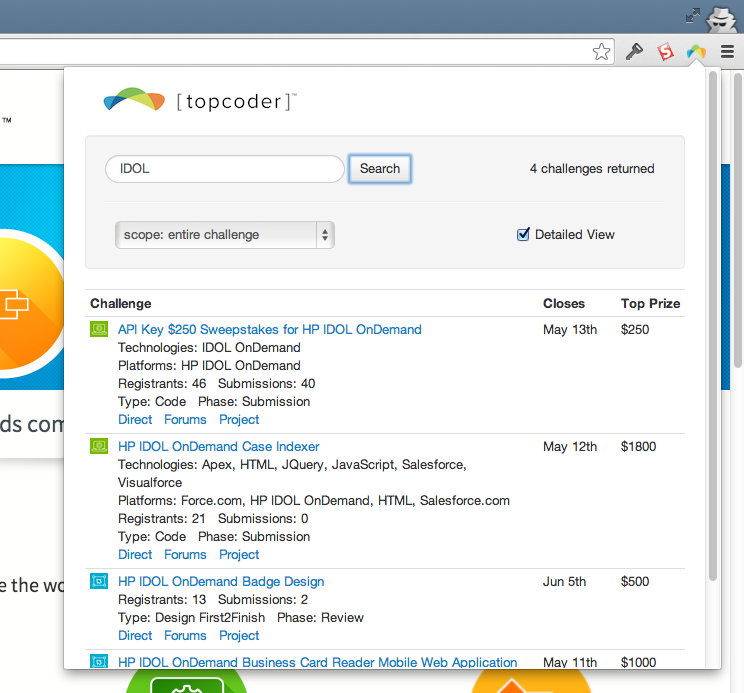
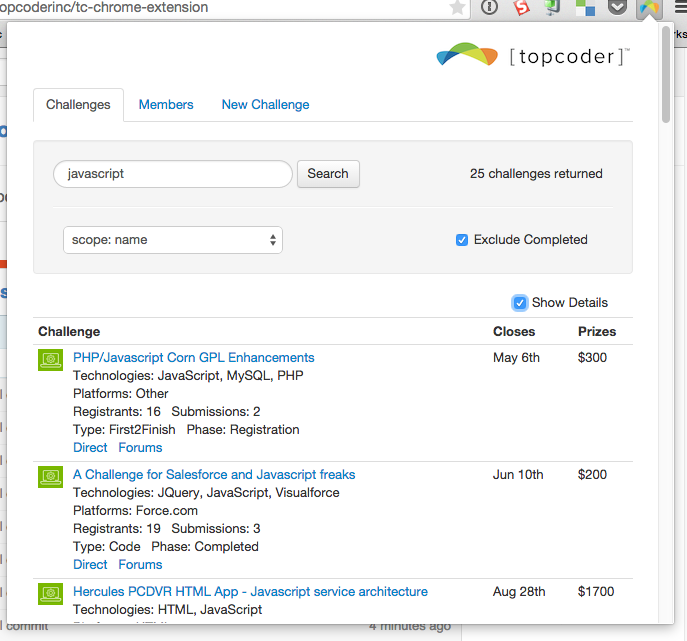
reworked readme

diff --git a/README.md b/README.md
@@ -1,0 +1,33 @@
+# [topcoder] Google Chrome Extension
+
+A simple Chrome Extension for search [topcoder] challenges. Allows you to perform a keyword search across challenges and look up members by handle and email.
+
+For challenges you can pick the scope of the search (defaults to the name of the challenge) and whether to exclude completed challenges. When the results return you can choose either a simple or expanded view of the challenges.
+
+For members you can search either by handle or email address and it will bring back all sorts of private info.
+
+**Disclaimer**: This is bleeding-edge.... like "walking dead" bleeding edge and therefore may change or die with a bullet to the head.
+
+## Simple Result View
+
+![simple view](https://raw.githubusercontent.com/cloudspokes/tc-chrome-extension/master/images/screenshot-simple.png)
+
+## Detailed Result View
+
+Displays technologies, platforms, number of registrants, number of submissions, type of challenge and current phase of challenge. Also provides a link to the challenge in Direct, a link to the forums for the challenge and a link to the challenge project in Direct.
+
+![simple view](https://raw.githubusercontent.com/cloudspokes/tc-chrome-extension/master/images/screenshot-detailed.png)
+
+## Installation
+
+The extension is not registered on the Chrome Web Store as of now so you will need to download it and manually add it. It's pretty simple.
+
+Either click the "Download ZIP" button on this page to download the code (hint.. it's on the right towards the bottom) or even easier run this from terminal:
+
+    git clone git@github.com:cloudspokes/tc-chrome-extension.git YOUR-TARGET-DIRECTORY
+
+1. In Chrome, open Settings -> Extensions  
+2. Make sure "Developer Mode" is checked in the upper right.  
+3. Click the "Load unpacked extension..." button and select YOUR-TARGET-DIRECTORY that you cloned the extension into.
+
+This should successfully install the extension and you should see it on your browser.
